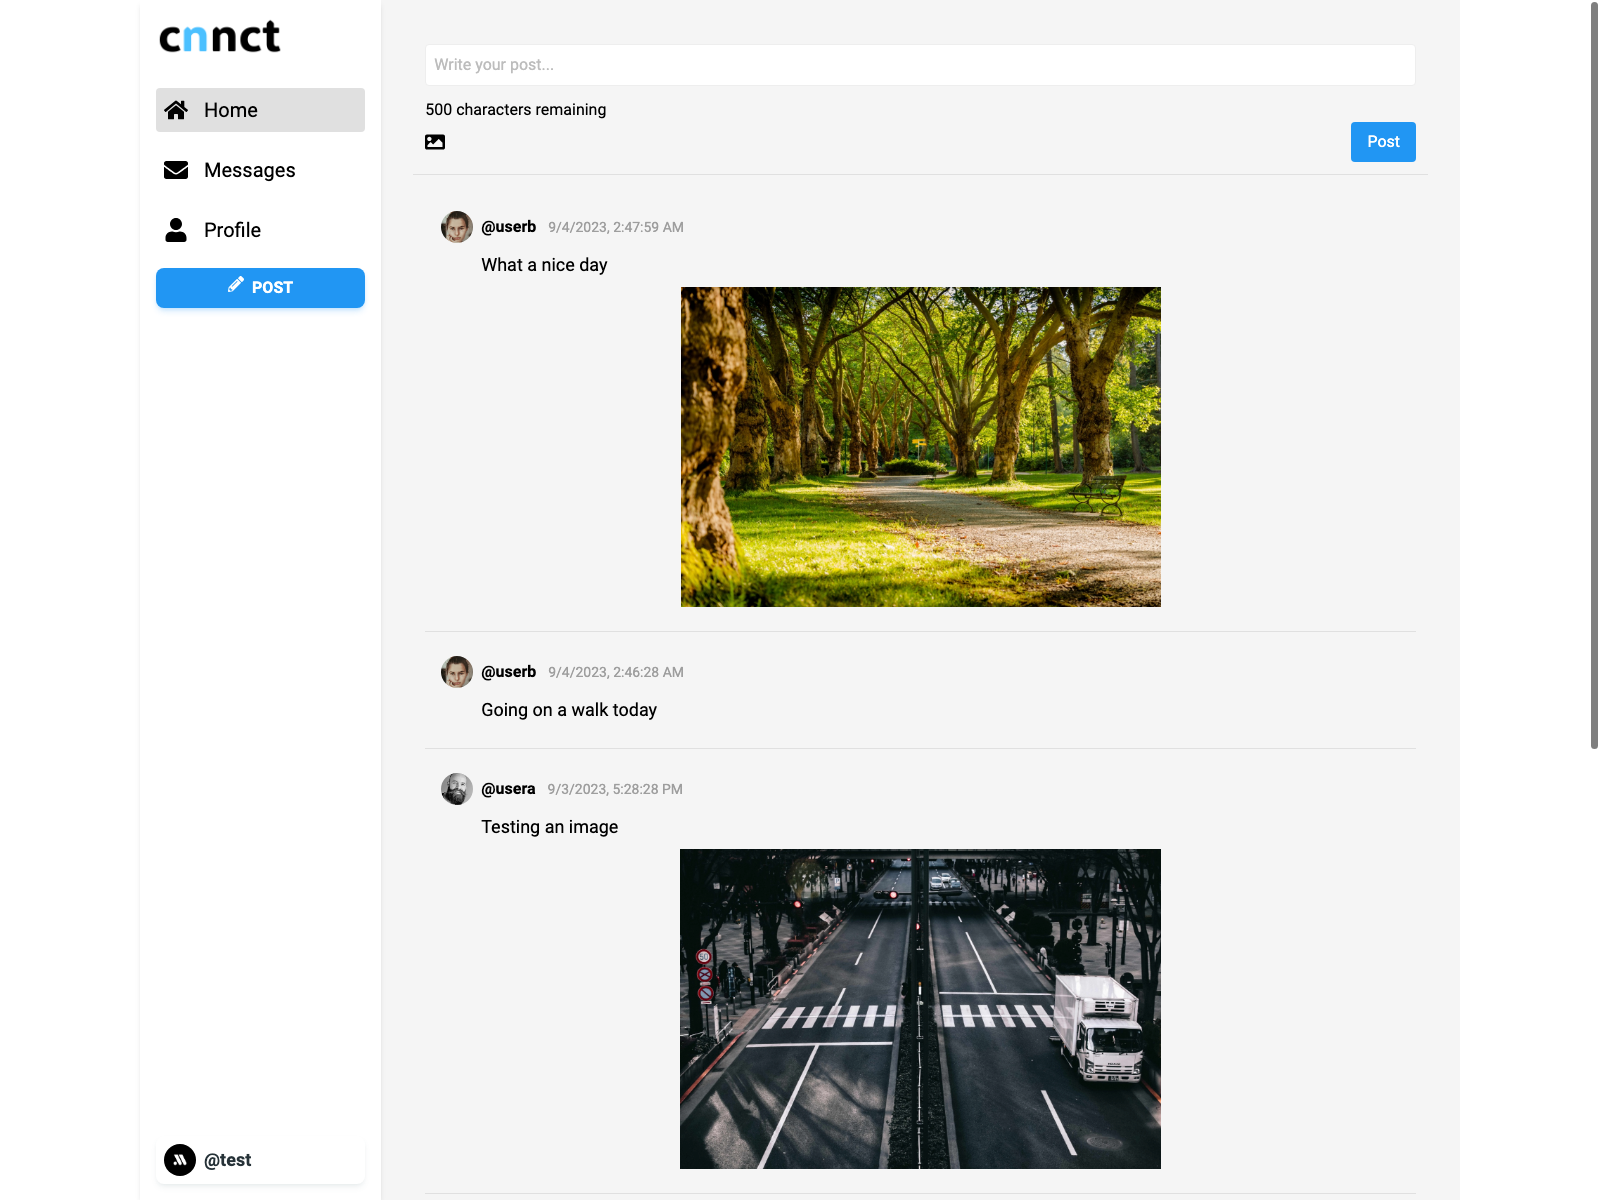
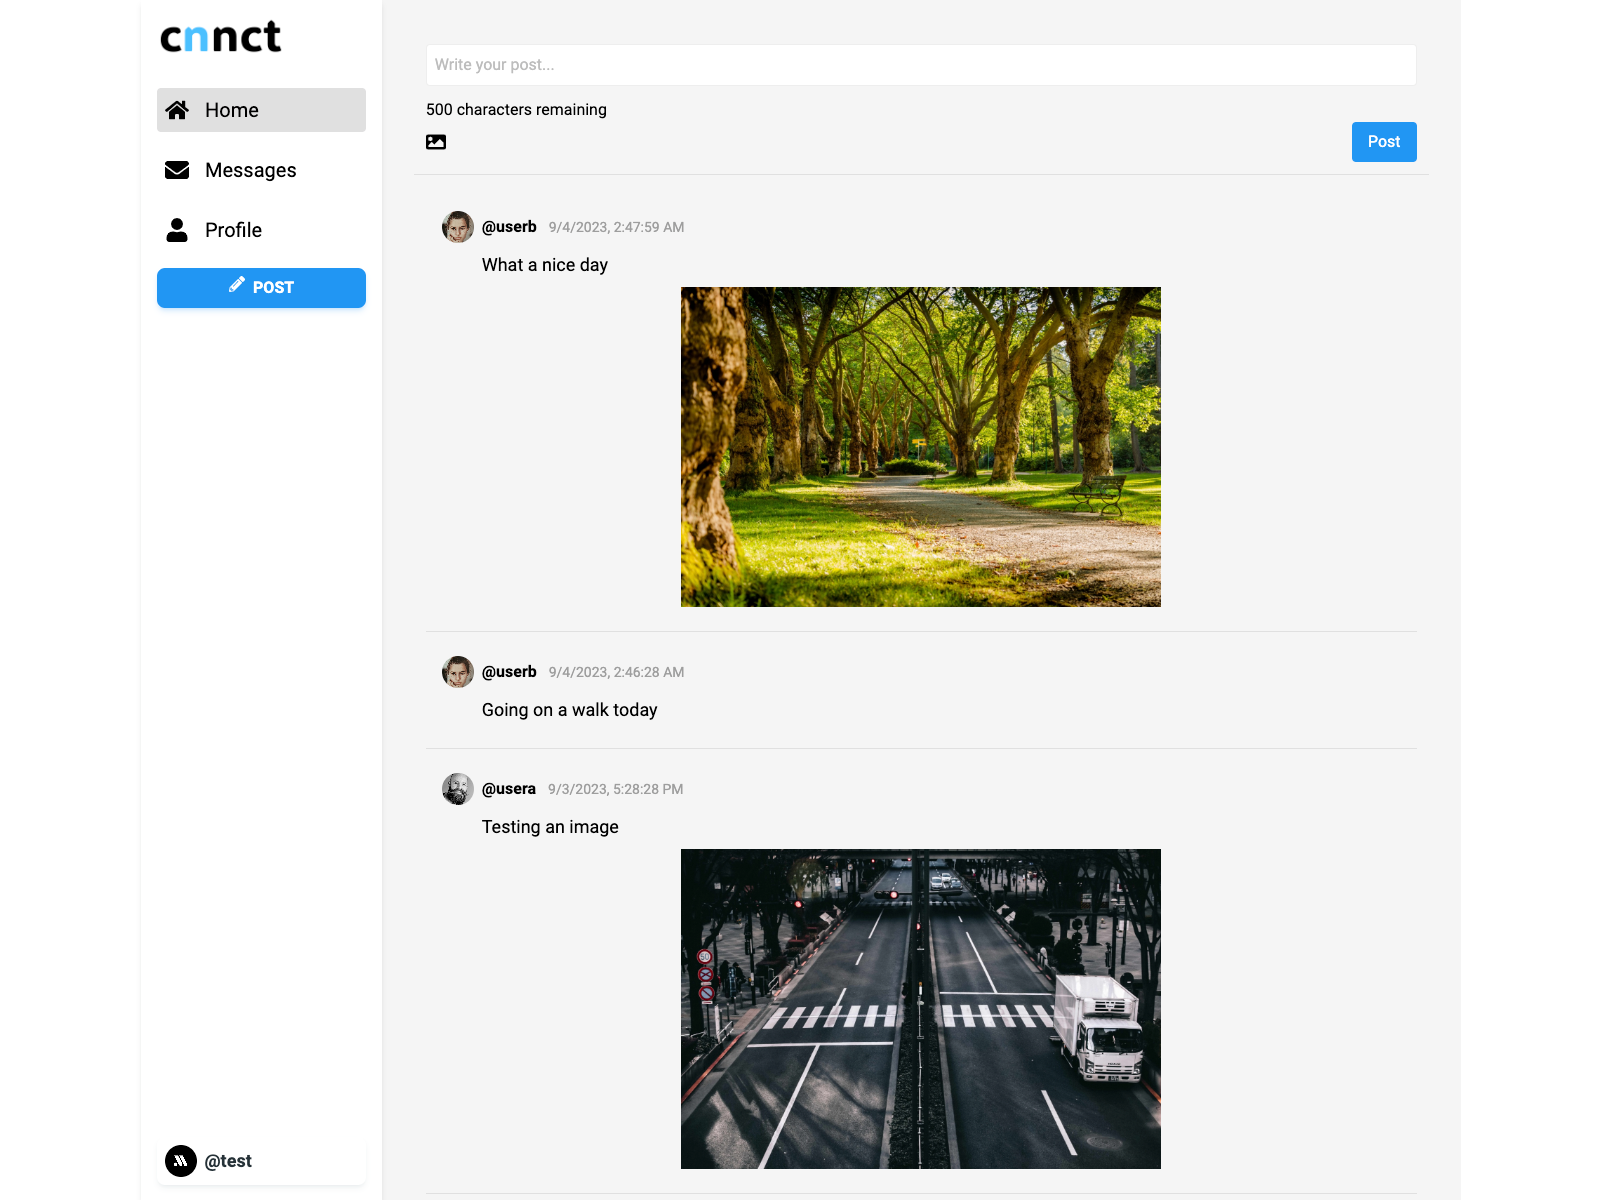
Add loader to messages

diff --git a/client/src/components/Messages/MessagesChat.tsx b/client/src/components/Messages/MessagesChat.tsx
@@ -5,6 +5,7 @@ import { getAuthToken } from '../../utils/authUtils';
 import { FaUser } from 'react-icons/fa';
 import { FiSend } from 'react-icons/fi';
 import { Link } from 'react-router-dom';
+import Loader from '../Common/Loader';
 
 export default function MessagesChat() {
   const { conversationId } = useParams();
@@ -15,10 +16,12 @@ export default function MessagesChat() {
   });
   const [message, setMessage] = useState('');
   const [messages, setMessages] = useState<string[]>([]);
+  const [isLoading, setIsLoading] = useState<boolean>(true);
   const socket = useRef<Socket | null>(null);
   const messagesEndRef = useRef<null | HTMLDivElement>(null);
 
   useEffect(() => {
+    setIsLoading(true);
     socket.current = io(`${process.env.REACT_APP_API}`);
 
     socket.current.on('receive_message', (msg: string) => {
@@ -28,6 +31,7 @@ export default function MessagesChat() {
     socket.current.on('initial_data', (initialData: any) => {
       setRecipient(initialData.recipient);
       setMessages(initialData.messages);
+      setIsLoading(false);
     });
 
     const token = getAuthToken();
@@ -52,6 +56,10 @@ export default function MessagesChat() {
       messagesEndRef.current.scrollTop = messagesEndRef.current.scrollHeight;
     }
   }, [messages]);
+
+  if (isLoading) {
+    return <Loader />;
+  }
 
   return (
     <div className="w-full h-screen flex flex-col">

diff --git a/client/src/pages/Root.tsx b/client/src/pages/Root.tsx
@@ -23,7 +23,7 @@ export default function RootLayout() {
   const navigation = token ? <MainNavigation /> : '';
 
   return (
-    <div className="flex justify-center h-full bg-white">
+    <div className="flex justify-center h-full bg-gray-100">
       <div className="flex max-w-screen-2xl w-full h-full">
         {navigation}
         <main className="w-full h-full">

diff --git a/README.md b/README.md
@@ -24,7 +24,7 @@ cnnct is a mockup project for a social media platform, aiming to bring forth a s
 
 ## Demo
 
-**Note:** Please allow the server a minute to load.
+**Note:** Initialization might take a brief moment.
 <br>
 Experience the live demo here: [cnnct-social.vercel.app](https://cnnct-social.vercel.app/)
 <br>
